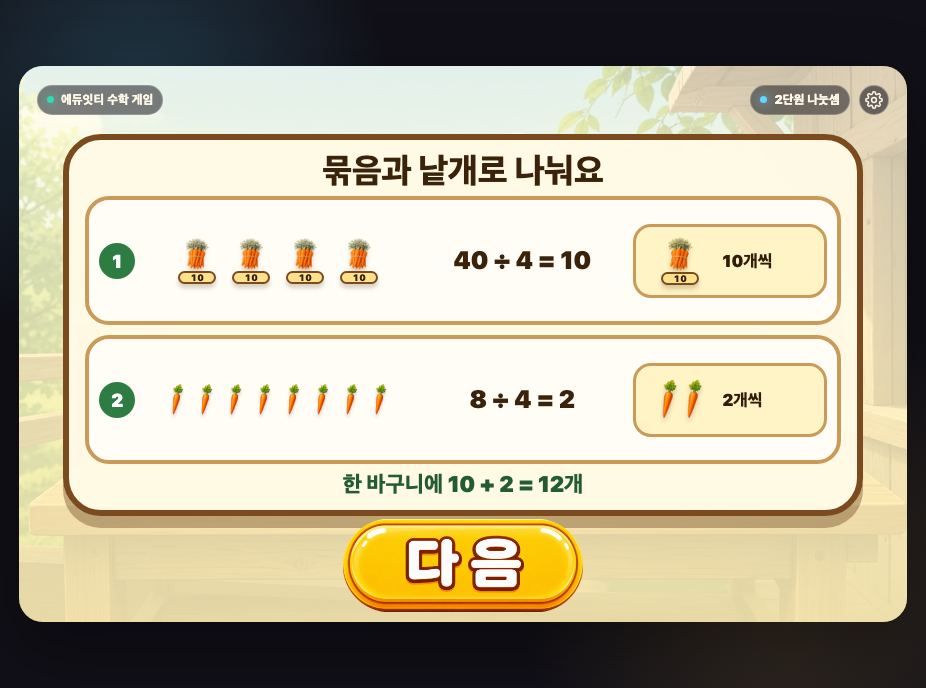
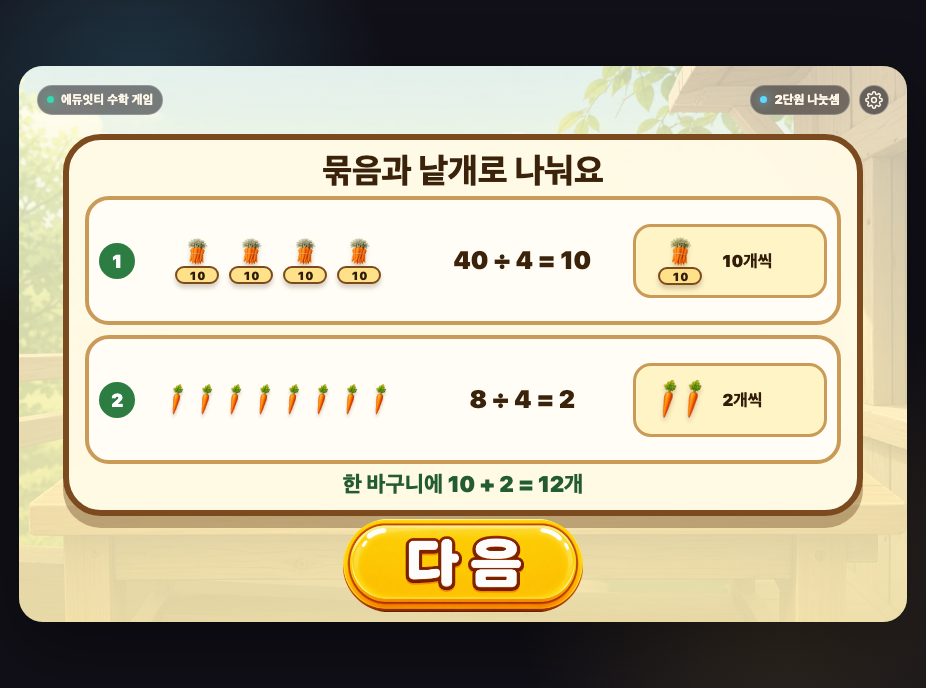
fix(mathmon): enlarge carrot bundle value labels

Changed region(s): [[0.1814, 0.3358, 0.4233, 0.4273], [0.6955, 0.3358, 0.7559, 0.4273]]

diff --git a/3-2-2-1-mathmon-divide-farm/index.html b/3-2-2-1-mathmon-divide-farm/index.html
@@ -1174,26 +1174,38 @@
 
     .game[data-workbench-type="place-value-farm"] .farm-share-source[data-unit-kind="bundle"]:is([data-unit-count="1"], [data-unit-count="2"], [data-unit-count="3"]) {
       --source-bundle-width: 112px;
-      --source-bundle-height: 108px;
+      --source-bundle-height: 118px;
       --source-bundle-gap: 24px;
+      --source-bundle-label-width: 64px;
+      --source-bundle-label-height: 26px;
+      --source-bundle-label-font: 1.12rem;
     }
 
     .game[data-workbench-type="place-value-farm"] .farm-share-source[data-unit-kind="bundle"]:is([data-unit-count="4"], [data-unit-count="5"]) {
       --source-bundle-width: 92px;
-      --source-bundle-height: 90px;
+      --source-bundle-height: 100px;
       --source-bundle-gap: 16px;
+      --source-bundle-label-width: 60px;
+      --source-bundle-label-height: 24px;
+      --source-bundle-label-font: 1.05rem;
     }
 
     .game[data-workbench-type="place-value-farm"] .farm-share-source[data-unit-kind="bundle"]:is([data-unit-count="6"], [data-unit-count="7"]) {
       --source-bundle-width: 76px;
-      --source-bundle-height: 74px;
+      --source-bundle-height: 84px;
       --source-bundle-gap: 10px;
+      --source-bundle-label-width: 56px;
+      --source-bundle-label-height: 23px;
+      --source-bundle-label-font: 1rem;
     }
 
     .game[data-workbench-type="place-value-farm"] .farm-share-source[data-unit-kind="bundle"]:is([data-unit-count="8"], [data-unit-count="9"], [data-unit-count="10"]) {
       --source-bundle-width: 62px;
-      --source-bundle-height: 61px;
+      --source-bundle-height: 75px;
       --source-bundle-gap: 6px;
+      --source-bundle-label-width: 52px;
+      --source-bundle-label-height: 22px;
+      --source-bundle-label-font: .95rem;
     }
 
     @media (max-width: 1100px) {
@@ -1208,25 +1220,25 @@
 
       .game[data-workbench-type="place-value-farm"] .farm-share-source[data-unit-kind="bundle"]:is([data-unit-count="1"], [data-unit-count="2"], [data-unit-count="3"]) {
         --source-bundle-width: 84px;
-        --source-bundle-height: 82px;
+        --source-bundle-height: 92px;
         --source-bundle-gap: 16px;
       }
 
       .game[data-workbench-type="place-value-farm"] .farm-share-source[data-unit-kind="bundle"]:is([data-unit-count="4"], [data-unit-count="5"]) {
         --source-bundle-width: 70px;
-        --source-bundle-height: 68px;
+        --source-bundle-height: 78px;
         --source-bundle-gap: 10px;
       }
 
       .game[data-workbench-type="place-value-farm"] .farm-share-source[data-unit-kind="bundle"]:is([data-unit-count="6"], [data-unit-count="7"]) {
         --source-bundle-width: 60px;
-        --source-bundle-height: 59px;
+        --source-bundle-height: 68px;
         --source-bundle-gap: 6px;
       }
 
       .game[data-workbench-type="place-value-farm"] .farm-share-source[data-unit-kind="bundle"]:is([data-unit-count="8"], [data-unit-count="9"], [data-unit-count="10"]) {
         --source-bundle-width: 52px;
-        --source-bundle-height: 51px;
+        --source-bundle-height: 62px;
         --source-bundle-gap: 4px;
       }
     }
@@ -2004,7 +2016,7 @@
     }
     .farm-produce-piece--bundle {
       width: 66px; height: 78px; color: #3b230b;
-      grid-template-rows: minmax(0, 1fr) 13px;
+      grid-template-rows: minmax(0, 1fr) 18px;
       align-items: stretch;
     }
     .farm-produce-art { width: 100%; height: 100%; display: block; object-fit: contain; pointer-events: none; user-select: none; }
@@ -2016,9 +2028,9 @@
     }
     .farm-produce-piece--bundle .farm-produce-value {
       position: static; grid-row: 2; justify-self: center; align-self: stretch; transform: none;
-      width: min(100%, 38px); height: 100%; min-height: 13px; box-sizing: border-box;
+      width: min(100%, 44px); height: 100%; min-height: 18px; box-sizing: border-box;
       border: 2px solid #7b4a1f; border-radius: 999px; color: #321d09; background: #ffe18a;
-      font-size: clamp(.55rem, 1vw, .78rem); line-height: 1; font-variant-numeric: tabular-nums;
+      font-size: clamp(.72rem, .9vw, .85rem); line-height: 1; font-variant-numeric: tabular-nums;
     }
     .farm-stock-token .farm-produce-piece--bundle { width: 50px; height: 44px; }
     .farm-produce-piece--single {
@@ -3473,6 +3485,16 @@
       overflow: hidden;
     }
     .game[data-workbench-type="place-value-farm"] .farm-share-source-pieces .farm-produce-piece--bundle { width: 72px; height: 70px; }
+    .game[data-workbench-type="place-value-farm"] .farm-share-source[data-unit-kind="bundle"] .farm-produce-piece--bundle {
+      height: var(--source-bundle-height, 75px);
+      grid-template-rows: minmax(0, 1fr) var(--source-bundle-label-height, 22px);
+    }
+    .game[data-workbench-type="place-value-farm"] .farm-share-source-pieces .farm-produce-piece--bundle .farm-produce-value {
+      width: min(100%, var(--source-bundle-label-width, 52px));
+      min-height: var(--source-bundle-label-height, 22px);
+      padding-inline: 4px;
+      font-size: var(--source-bundle-label-font, .95rem);
+    }
     .game[data-workbench-type="place-value-farm"] .farm-share-source-pieces .farm-produce-piece--single {
       width: 38px;
       height: 72px;

diff --git a/_lessons/3-2-2-1-mathmon-divide-farm/lesson.css b/_lessons/3-2-2-1-mathmon-divide-farm/lesson.css
@@ -249,26 +249,38 @@
 
 .game[data-workbench-type="place-value-farm"] .farm-share-source[data-unit-kind="bundle"]:is([data-unit-count="1"], [data-unit-count="2"], [data-unit-count="3"]) {
   --source-bundle-width: 112px;
-  --source-bundle-height: 108px;
+  --source-bundle-height: 118px;
   --source-bundle-gap: 24px;
+  --source-bundle-label-width: 64px;
+  --source-bundle-label-height: 26px;
+  --source-bundle-label-font: 1.12rem;
 }
 
 .game[data-workbench-type="place-value-farm"] .farm-share-source[data-unit-kind="bundle"]:is([data-unit-count="4"], [data-unit-count="5"]) {
   --source-bundle-width: 92px;
-  --source-bundle-height: 90px;
+  --source-bundle-height: 100px;
   --source-bundle-gap: 16px;
+  --source-bundle-label-width: 60px;
+  --source-bundle-label-height: 24px;
+  --source-bundle-label-font: 1.05rem;
 }
 
 .game[data-workbench-type="place-value-farm"] .farm-share-source[data-unit-kind="bundle"]:is([data-unit-count="6"], [data-unit-count="7"]) {
   --source-bundle-width: 76px;
-  --source-bundle-height: 74px;
+  --source-bundle-height: 84px;
   --source-bundle-gap: 10px;
+  --source-bundle-label-width: 56px;
+  --source-bundle-label-height: 23px;
+  --source-bundle-label-font: 1rem;
 }
 
 .game[data-workbench-type="place-value-farm"] .farm-share-source[data-unit-kind="bundle"]:is([data-unit-count="8"], [data-unit-count="9"], [data-unit-count="10"]) {
   --source-bundle-width: 62px;
-  --source-bundle-height: 61px;
+  --source-bundle-height: 75px;
   --source-bundle-gap: 6px;
+  --source-bundle-label-width: 52px;
+  --source-bundle-label-height: 22px;
+  --source-bundle-label-font: .95rem;
 }
 
 @media (max-width: 1100px) {
@@ -283,25 +295,25 @@
 
   .game[data-workbench-type="place-value-farm"] .farm-share-source[data-unit-kind="bundle"]:is([data-unit-count="1"], [data-unit-count="2"], [data-unit-count="3"]) {
     --source-bundle-width: 84px;
-    --source-bundle-height: 82px;
+    --source-bundle-height: 92px;
     --source-bundle-gap: 16px;
   }
 
   .game[data-workbench-type="place-value-farm"] .farm-share-source[data-unit-kind="bundle"]:is([data-unit-count="4"], [data-unit-count="5"]) {
     --source-bundle-width: 70px;
-    --source-bundle-height: 68px;
+    --source-bundle-height: 78px;
     --source-bundle-gap: 10px;
   }
 
   .game[data-workbench-type="place-value-farm"] .farm-share-source[data-unit-kind="bundle"]:is([data-unit-count="6"], [data-unit-count="7"]) {
     --source-bundle-width: 60px;
-    --source-bundle-height: 59px;
+    --source-bundle-height: 68px;
     --source-bundle-gap: 6px;
   }
 
   .game[data-workbench-type="place-value-farm"] .farm-share-source[data-unit-kind="bundle"]:is([data-unit-count="8"], [data-unit-count="9"], [data-unit-count="10"]) {
     --source-bundle-width: 52px;
-    --source-bundle-height: 51px;
+    --source-bundle-height: 62px;
     --source-bundle-gap: 4px;
   }
 }
@@ -1079,7 +1091,7 @@
 }
 .farm-produce-piece--bundle {
   width: 66px; height: 78px; color: #3b230b;
-  grid-template-rows: minmax(0, 1fr) 13px;
+  grid-template-rows: minmax(0, 1fr) 18px;
   align-items: stretch;
 }
 .farm-produce-art { width: 100%; height: 100%; display: block; object-fit: contain; pointer-events: none; user-select: none; }
@@ -1091,9 +1103,9 @@
 }
 .farm-produce-piece--bundle .farm-produce-value {
   position: static; grid-row: 2; justify-self: center; align-self: stretch; transform: none;
-  width: min(100%, 38px); height: 100%; min-height: 13px; box-sizing: border-box;
+  width: min(100%, 44px); height: 100%; min-height: 18px; box-sizing: border-box;
   border: 2px solid #7b4a1f; border-radius: 999px; color: #321d09; background: #ffe18a;
-  font-size: clamp(.55rem, 1vw, .78rem); line-height: 1; font-variant-numeric: tabular-nums;
+  font-size: clamp(.72rem, .9vw, .85rem); line-height: 1; font-variant-numeric: tabular-nums;
 }
 .farm-stock-token .farm-produce-piece--bundle { width: 50px; height: 44px; }
 .farm-produce-piece--single {
@@ -2548,6 +2560,16 @@
   overflow: hidden;
 }
 .game[data-workbench-type="place-value-farm"] .farm-share-source-pieces .farm-produce-piece--bundle { width: 72px; height: 70px; }
+.game[data-workbench-type="place-value-farm"] .farm-share-source[data-unit-kind="bundle"] .farm-produce-piece--bundle {
+  height: var(--source-bundle-height, 75px);
+  grid-template-rows: minmax(0, 1fr) var(--source-bundle-label-height, 22px);
+}
+.game[data-workbench-type="place-value-farm"] .farm-share-source-pieces .farm-produce-piece--bundle .farm-produce-value {
+  width: min(100%, var(--source-bundle-label-width, 52px));
+  min-height: var(--source-bundle-label-height, 22px);
+  padding-inline: 4px;
+  font-size: var(--source-bundle-label-font, .95rem);
+}
 .game[data-workbench-type="place-value-farm"] .farm-share-source-pieces .farm-produce-piece--single {
   width: 38px;
   height: 72px;
